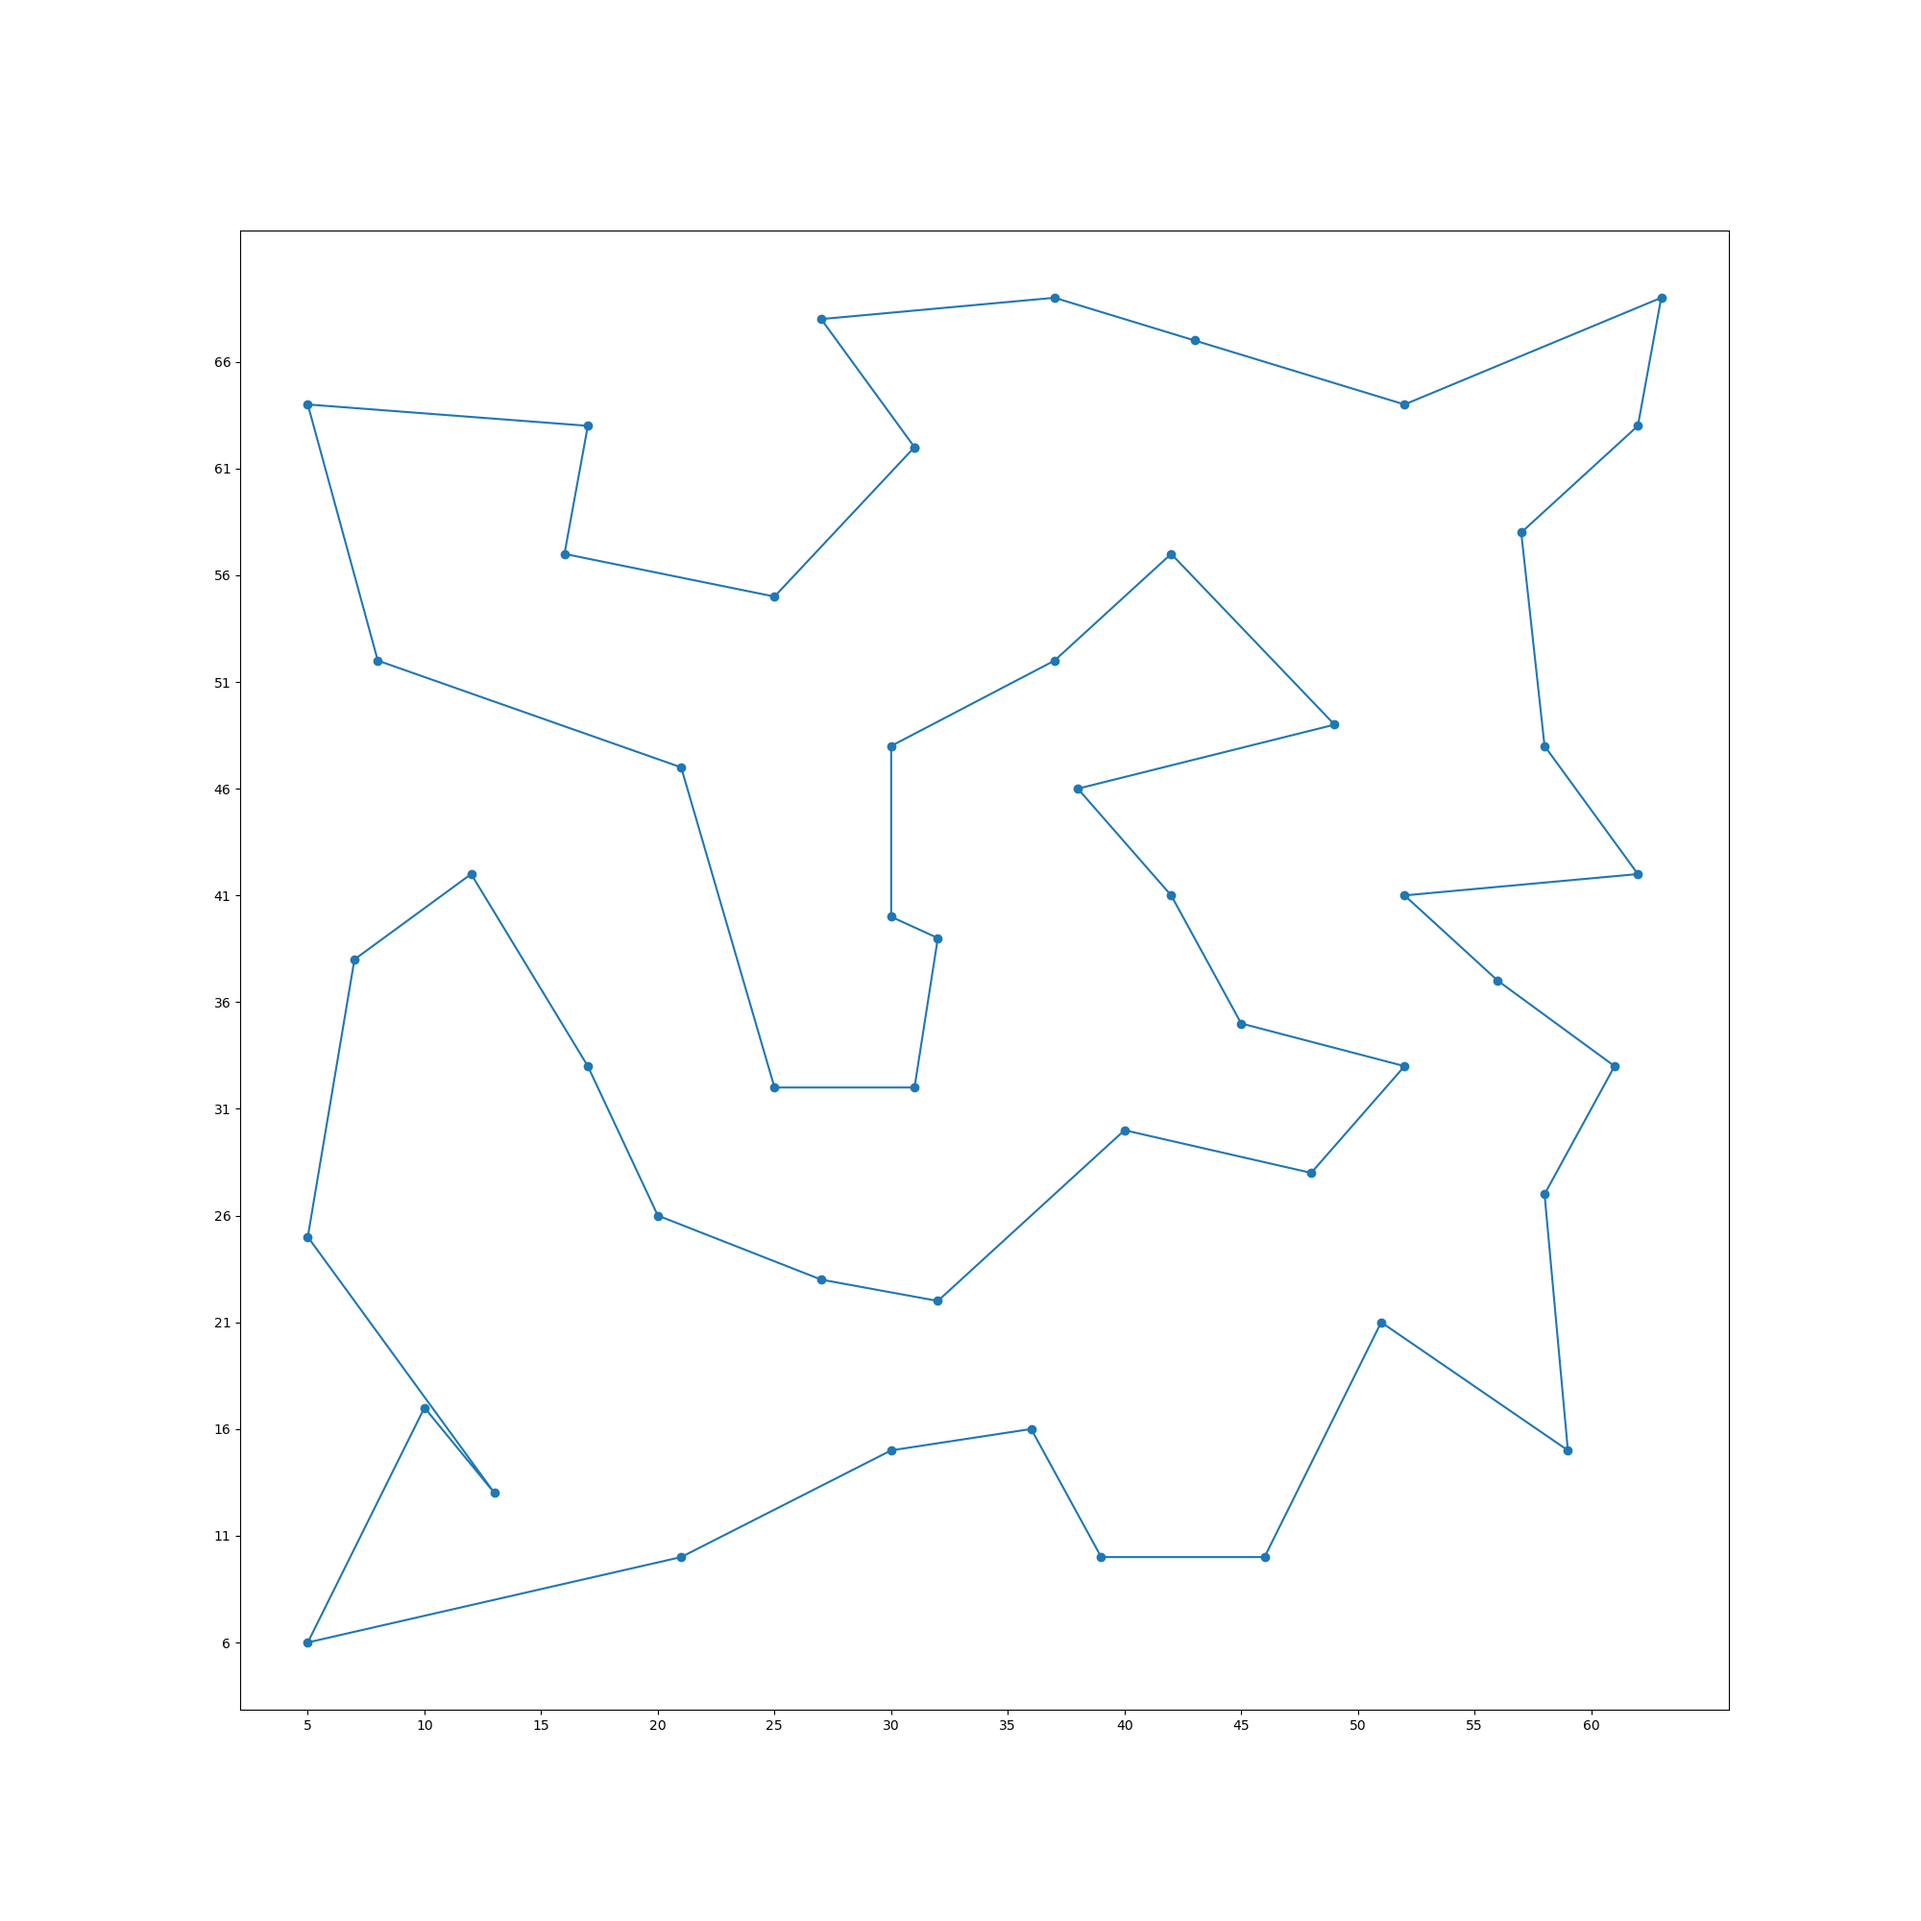
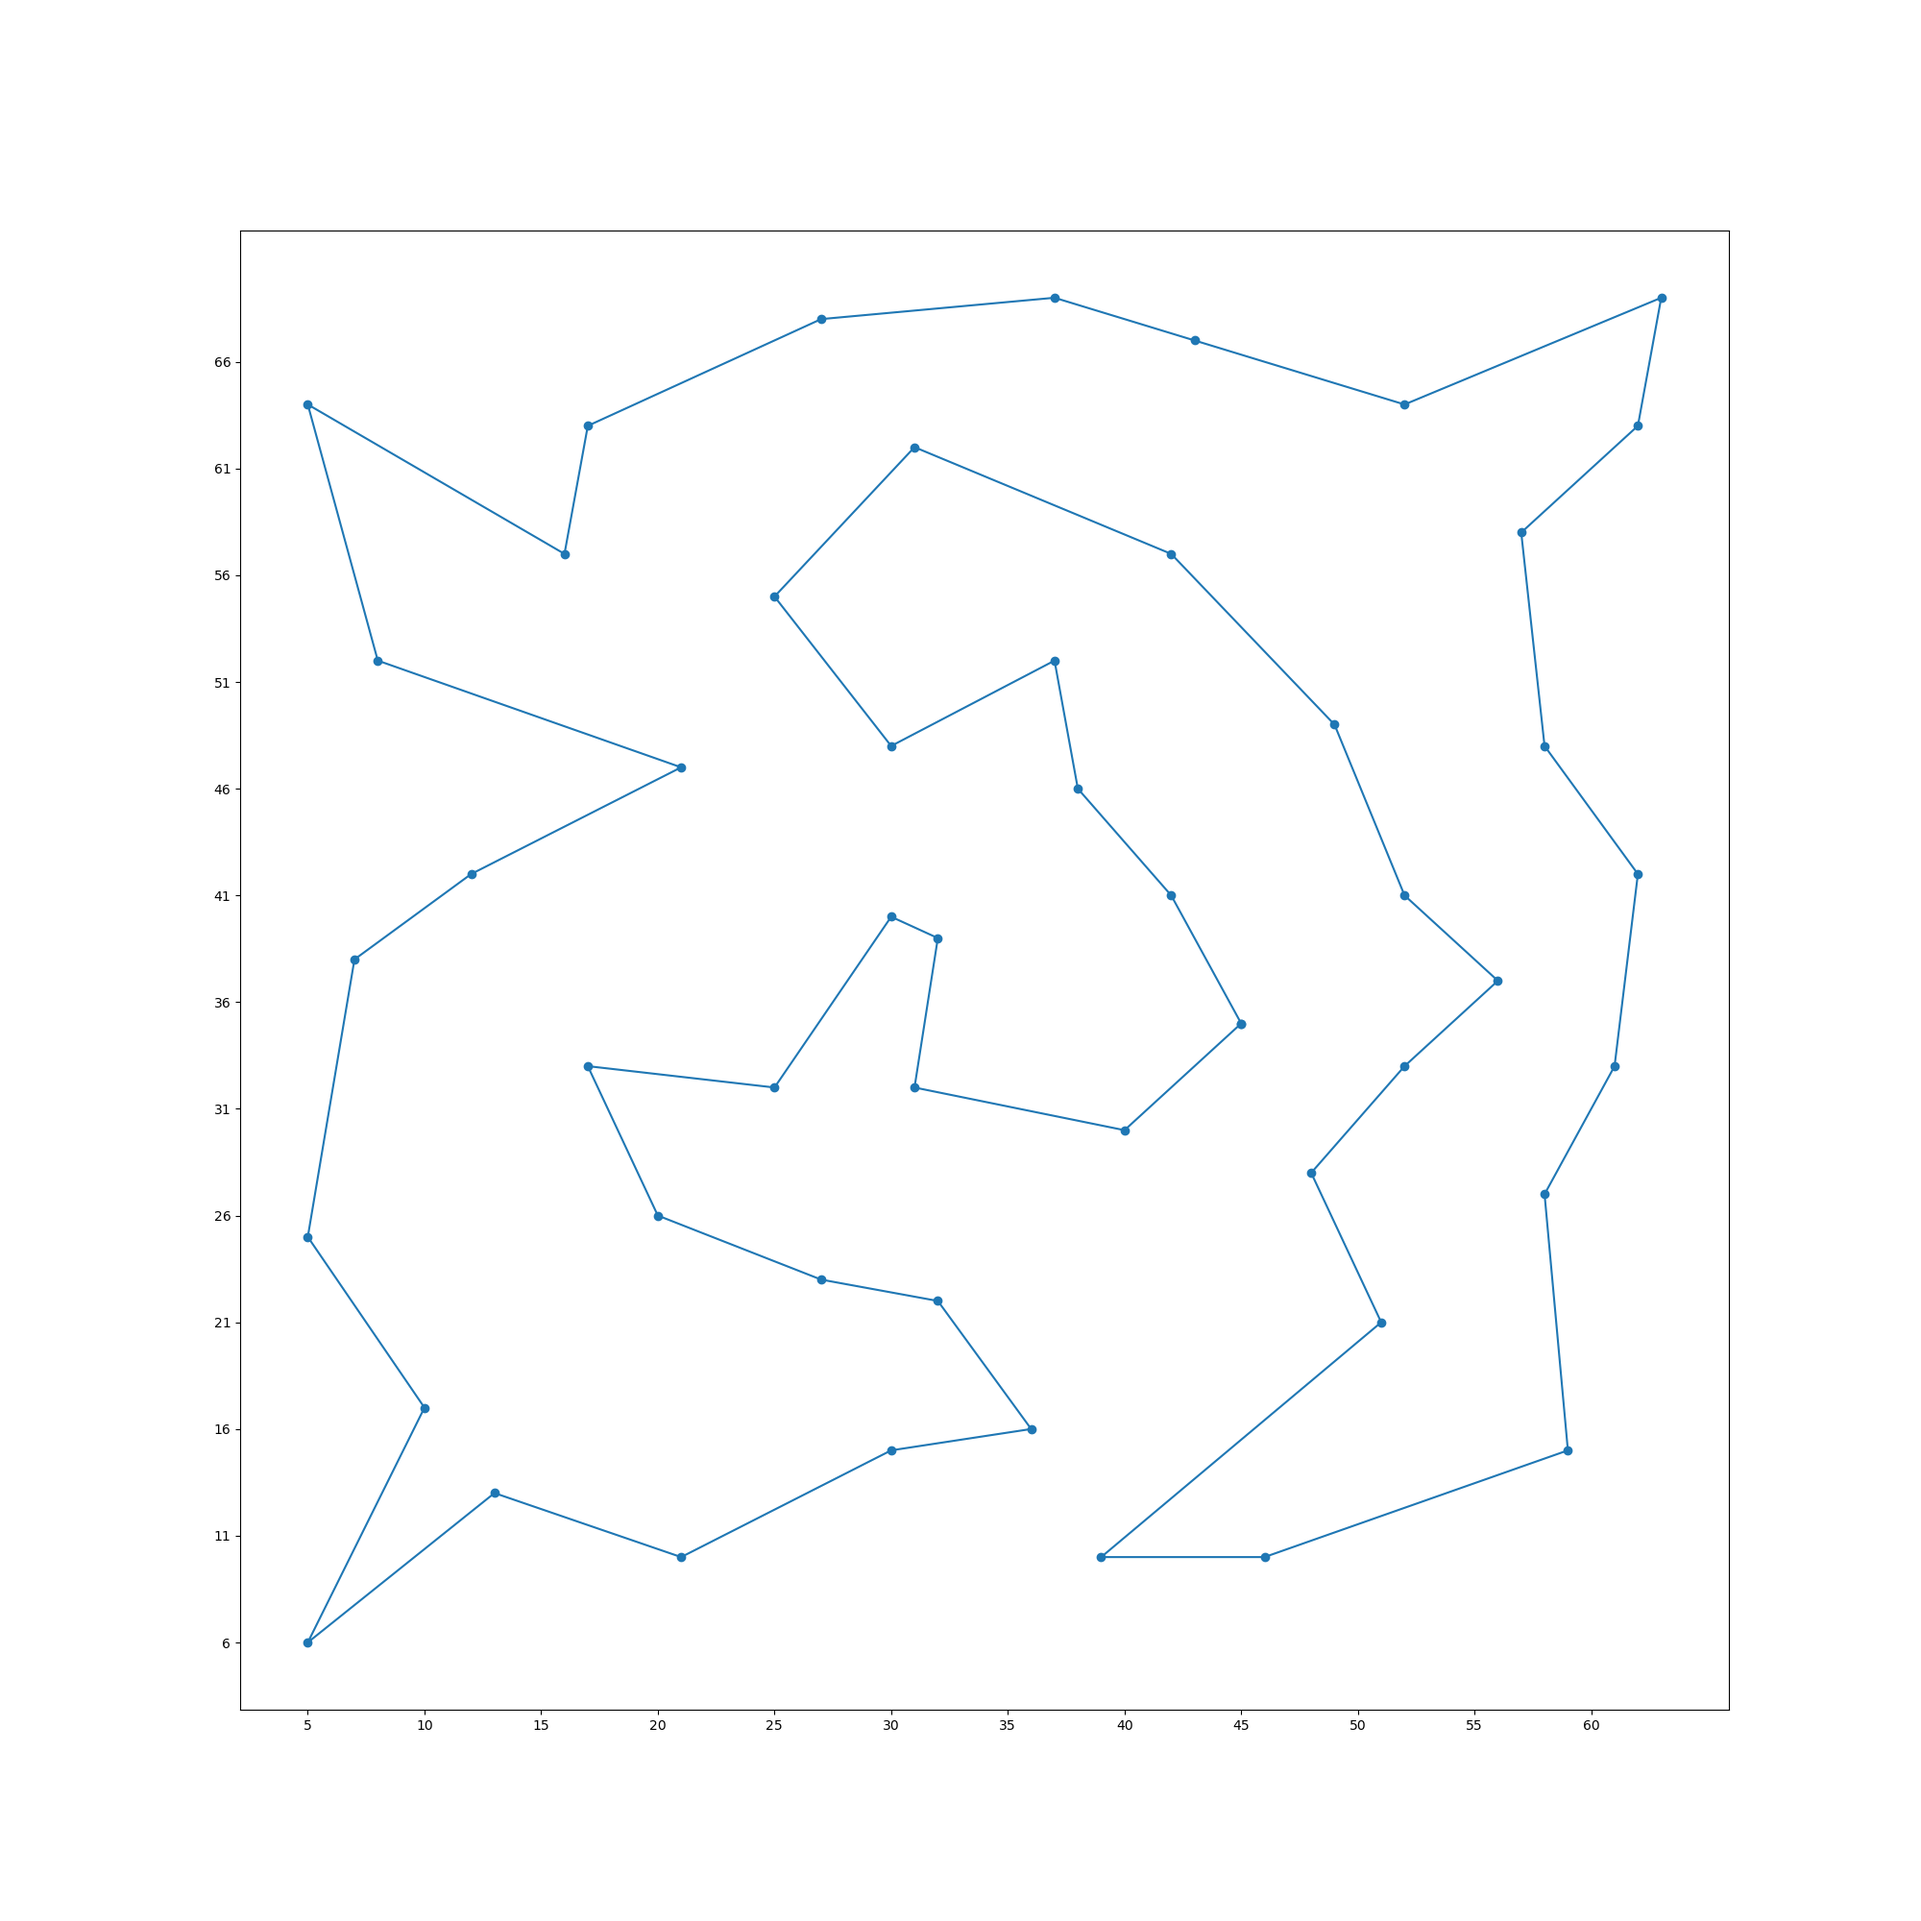
before k-opt edges

Changed region(s): [[0.186, 0.682, 0.217, 0.713]]

diff --git a/tsp/TSP.py b/tsp/TSP.py
@@ -65,7 +65,7 @@ def clear_path(initial_path, dict_points, num_iterations=100, history = []):
 def length(point1, point2):
     return math.sqrt((point1.x - point2.x)**2 + (point1.y - point2.y)**2)    
 
-def K_opt(initial_path, old_weight, adjacency_matrix, points_iterated=None, mode='improve', epsilon_edge = 0.02, epsilon_continue = 0.1, history=[]):
+def K_opt(initial_path, old_weight, adjacency_matrix, points_iterated=None, mode='improve', epsilon_edge = 0.03, epsilon_continue = 0.15, history=[]):
     if mode == 'improve':
         epsilon_edge = -1
         epsilon_continue = -1
@@ -78,7 +78,14 @@ def K_opt(initial_path, old_weight, adjacency_matrix, points_iterated=None, mode
     # iterations over points
     if points_iterated is None:
         points_iterated = range(len(initial_path))
-    for initial_point in points_iterated:
+        # shuffle(points_iterated)
+    has_changed = False
+    edges = sorted(extract_edges(path + [path[0]]), key = lambda edge : adjacency_matrix[edge[0]][edge[1]], reverse=True)
+    edge_index = 0
+    # for initial_point in points_iterated:
+    while not has_changed:
+        initial_point = randint(0, len(initial_path)-1)
+        # initial_point, next_point = edges[edge_index]
         # print(f'initial point is {initial_point}')
         
         # iterations through k opts
@@ -144,7 +151,7 @@ def K_opt(initial_path, old_weight, adjacency_matrix, points_iterated=None, mode
     
 
 
-def complex_tabu_search(initial_path, points, adjacency_matrix, num_iterations = 100, epsilon_change_path = 1e-3):
+def complex_tabu_search(initial_path, points, adjacency_matrix, num_iterations = 100, num_neighbors = 15, epsilon_change_path = 1e+1):
     path = deepcopy(initial_path)
     tabu = []
     L = 40
@@ -152,29 +159,32 @@ def complex_tabu_search(initial_path, points, adjacency_matrix, num_iterations =
     best_path = deepcopy(path)
     best_paths = []
     old_weight = weight_of_path(path + [path[0]], adjacency_matrix)
+    temperature = 0
     
     for epoch in range(num_iterations):
         old_best_weight = best_weight
        
         # path = deepcopy(best_path)
-        mode = 'improve'
+        mode = 'explore'
         global_points_iterated = list(range(len(initial_path)))
         shuffle(global_points_iterated)
-        for initial_point in global_points_iterated[:len(global_points_iterated)]:
-            points_iterated = list(range(len(initial_path)))
-            shuffle(points_iterated)
-            # points_iterated = [initial_point]
-            new_path, new_weight, considered_points, has_changed = K_opt(path, old_weight,  adjacency_matrix, points_iterated, mode)
+        best_neighbor_weight = np.inf
+        for n in range(num_neighbors):
+            # for initial_point in global_points_iterated[:len(global_points_iterated)]:
+                # points_iterated = list(range(len(initial_path)))
+                # shuffle(points_iterated)
+                # points_iterated = [initial_point]
+            new_path, new_weight, considered_points, has_changed = K_opt(path, old_weight,  adjacency_matrix, None, mode)
             # new_path = Two_OPT(path, points)
             if not has_changed:
                 continue
-            print('has changed')
+            # print('has changed')
             seen = False
             for tabu_hash in tabu:
                 seen_points, weight = tabu_hash    
-                if seen_points == considered_points and weight == new_weight:
+                if round(weight, 2) == round(new_weight, 2):
                     seen = True
-                    print('tabu')
+                    # print('tabu')
                     break
             if not seen:
                 
@@ -183,18 +193,35 @@ def complex_tabu_search(initial_path, points, adjacency_matrix, num_iterations =
                     # print(f'new weight is {new_weight}')
                     # print(f'old weight is {old_weight}')
                     # print(f'possibility is {np.exp( - epsilon_change_path * (new_weight - old_weight) *  (epoch + 1))}')
-                if round(new_weight, 2) < round(old_weight, 2) or random() < np.exp( - epsilon_change_path * (new_weight - old_weight) *  (epoch + 1)):
-                    path = deepcopy(new_path)
-                    old_weight = new_weight
+                if round(new_weight, 2) < round(best_neighbor_weight, 2) :
+                    best_neighbor_path = deepcopy(new_path)
+                    best_neighbor_weight = new_weight
+                    best_considered_points = deepcopy(considered_points)
                     # print(f'change path, current weight {new_weight}')
-                    tabu.append((considered_points, new_weight))
-                    if len(tabu) > L:
-                        tabu.pop(0)
+                    
                 if round(new_weight, 2) < round(best_weight, 2):
                     best_weight = new_weight
                     best_path = deepcopy(new_path)
-                    best_paths.append((deepcopy(new_path), new_weight))
-        print(f'tabu iteration is {epoch} old weight is {old_best_weight} new weight is {best_weight}')
+        # print(f'new_weight is {new_weight} old_weight is {old_weight} possibility is {np.exp( - epsilon_change_path * (new_weight - old_weight + 3) * 2 /  old_weight /   (temperature + 1))}')        
+        if round(old_weight, 2) < round(best_neighbor_weight, 2):
+            path = deepcopy(best_neighbor_path)
+            old_weight = best_neighbor_weight
+            tabu.append((best_considered_points, best_neighbor_weight))
+            if len(tabu) > L:
+                tabu.pop(0)
+            temperature = 0
+        elif random() < np.exp( - epsilon_change_path * (new_weight - old_weight + 3) *2 / old_weight/  (temperature + 1)):
+            path = deepcopy(best_neighbor_path)
+            old_weight = best_neighbor_weight
+            tabu.append((best_considered_points, best_neighbor_weight))
+            if len(tabu) > L:
+                tabu.pop(0)
+            temperature = 0
+            
+        else:
+            temperature += 1
+            
+        print(f'tabu iteration is {epoch} old weight is {old_best_weight} new weight is {best_weight} temperature is {temperature}')
         
                 
     return best_path, best_weight

diff --git a/tsp/solver.py b/tsp/solver.py
@@ -81,13 +81,15 @@ def solve_it(input_data):
             best_path = deepcopy(path)
         print(f'start weight {start_weight }')
 
-        path, weight = complex_tabu_search(path, points, matrix, num_iterations = 500)
-               
-        # path = clear_path(path + [path[0]], points)[0][:-1]
-        # fig = plt.figure(figsize = (20, 20))
-        # plt.plot(list(map(lambda x: points[x].x, path + [path[0]])), list(map(lambda x: points[x].y, path + [path[0]])), '-o')
-        # plt.savefig(f'graph_{i}.png')
-        # plt.clf()
+        path, weight = complex_tabu_search(path, points, matrix, num_iterations = 50)
+        path, weight = complex_tabu_search(path, points, matrix, num_iterations = 50)
+        path, weight = complex_tabu_search(path, points, matrix, num_iterations = 50)  
+        
+        path = clear_path(path + [path[0]], points)[0][:-1]
+        fig = plt.figure(figsize = (20, 20))
+        plt.plot(list(map(lambda x: points[x].x, path + [path[0]])), list(map(lambda x: points[x].y, path + [path[0]])), '-o')
+        plt.savefig(f'graph_{i}.png')
+        plt.clf()
         print(f'end weight {weight}') 
         weight = weight_of_path(path + [path[0]], matrix)
         if weight < best_weight:
@@ -95,15 +97,15 @@ def solve_it(input_data):
             best_path = deepcopy(path)
             
     
-    path = create_initial_path(matrix, sorted_matrix, 0)
+    path = best_path # create_initial_path(matrix, sorted_matrix, 0)
     start_weight = weight_of_path(path + [path[0]], matrix)
     if start_weight < best_weight:
         best_weight = start_weight
         best_path = deepcopy(path)
     print(f'start weight {start_weight }')
 
-    path, weight = complex_tabu_search(path, points, matrix, num_iterations = 5)
-    # path = clear_path(path + [path[0]], points)[0][:-1]
+    path, weight = complex_tabu_search(path, points, matrix, num_iterations = 200)
+    path = clear_path(path + [path[0]], points)[0][:-1]
     weight = weight_of_path(path + [path[0]], matrix)
     # fig = plt.figure(figsize = (20, 20))
     # plt.plot(list(map(lambda x: points[x].x, path + [path[0]])), list(map(lambda x: points[x].y, path + [path[0]])), '-o')
